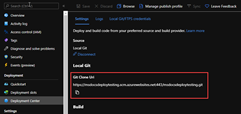
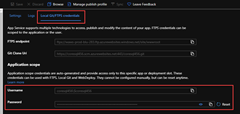
fixed deployments

Changed region(s): [[0.0, 0.0, 1.0, 1.0], [0.7875, 0.4474, 0.8167, 0.5], [0.7875, 0.3421, 0.8167, 0.3947]]

diff --git a/articles/ux-beta/dotnet-app-service-sql/includes/deploy-app-service/deploy-local-git.md b/articles/ux-beta/dotnet-app-service-sql/includes/deploy-app-service/deploy-local-git.md
@@ -1,4 +1,4 @@
-You can deploy your application code from a local Git repository to Azure by configuring a [Git remote](https://git-scm.com/book/en/v2/Git-Basics-Working-with-Remotes) in your local repo pointing at Azure to push code to. The URL of the remote repository and Git credentials needed for configuration can be retrieved using either the Azure portal or the Azure CLI.
+You can deploy your application code from a local Git repository to Azure by configuring a [Git remote](https://git-scm.com/book/en/v2/Git-Basics-Working-with-Remotes) in your local repo pointing at your Azure App Service. The URL of the remote repository and Git credentials needed for configuration can be retrieved using either the Azure portal or the Azure CLI.
 
 ### [Azure portal](#tab/deploy-instructions-azportal)
 
@@ -19,18 +19,28 @@ az webapp deployment source config-local-git \
     --output tsv
 ```
 
+Retrieve the deployment credentials for your application. These will be needed for Git to authenticate to Azure when you push code to Azure in a later step.
+
+```azurecli
+az webapp deployment list-publishing-credentials 
+        --name <app-service-name> 
+        --resource-group msdocs-core-sql
+        --query "{Username:join(`u005C`, [name,publishingUserName]), Password:publishingPassword}"
+```
+
 ---
 
-Next, let's add an Azure origin to our local Git repo using the App Service Git deployment URL from the step where we created our App Service.  Make sure to replace your username and app name in the url below.
+Next, let's add an Azure origin to our local Git repo using the App Service Git deployment URL from the step where we created our App Service.  Make sure to replace your app name in the url below.  You can also get this completed URL from the Azure Portal Local Git/FTPS Credentials tab.
 
 ```bash
-git remote add azure https://<username>@<app-name>.scm.azurewebsites.net/<your-app-name>.git
+git remote add azure https://<app-name>.scm.azurewebsites.net/<your-app-name>.git
 ```
 
 Finally, push your code using the correct origin and branch name.
 
 ```bash
-git push azure master
+## Master is the default deployment branch for App Service - this will ensure our local main branch works for the deployment
+git push azure main:master
 ```
 
 Enter your password if you are prompted to do so. This command will take a moment to run as it deploys your app code to the Azure App Service.

diff --git a/articles/ux-beta/dotnet-app-service-sql/azure-app-service-sql.md b/articles/ux-beta/dotnet-app-service-sql/azure-app-service-sql.md
@@ -20,11 +20,11 @@ This article assumes you're familiar with [.NET]("https://dotnet.microsoft.com/d
 
 ## 1 - Set up the Sample Application
 
-To follow along with this tutorial, [Download the Sample Project](https://github.com/Azure-Samples/dotnetcore-sqldb-tutorial/archive/refs/heads/master.zip) from the repository [https://github.com/Azure-Samples/dotnetcore-sqldb-tutorial](https://github.com/Azure-Samples/dotnetcore-sqldb-tutorial) or clone it using the Git command below.
+To follow along with this tutorial, [Download the Sample Project](https://github.com/Azure-Samples/msdocs-app-service-sqldb-dotnetcore/archive/refs/heads/main.zip) from the repository [https://github.com/Azure-Samples/msdocs-app-service-sqldb-dotnetcore](https://github.com/Azure-Samples/msdocs-app-service-sqldb-dotnetcore) or clone it using the Git command below.
 
 ```bash
-git clone https://github.com/azure-samples/dotnetcore-sqldb-tutorial
-cd dotnetcore-sqldb-tutorial
+git clone https://github.com/Azure-Samples/msdocs-app-service-sqldb-dotnetcore.git
+cd msdocs-app-service-sqldb-dotnetcore
 ```
 
 :::image type="content" source="media/azure-app-in-browser.png" alt-text="This is an architecture diagram about how the solution works in Azure":::

diff --git a/articles/ux-beta/dotnet-app-service-sql/includes/deploy-app-service/deploy-from-local-git-azportal-3.md b/articles/ux-beta/dotnet-app-service-sql/includes/deploy-app-service/deploy-from-local-git-azportal-3.md
@@ -1,3 +1,7 @@
-After saving, the page will refresh and display the address for the remote Git repository.
+After saving, on the Deployment Center page:
 
-Copy the value of the Git Clone Uri as this value will be used to set up a Git remote in a later step.
+1) Navigate to the Local Git/FTPS credentials tab.
+2) Locate the username and password under the Application Scope credentials.
+3) Keep this screen open or copy these credentials to use momentarily when you deploy your code to the remote repository.
+
+When you push code to the remote Git repository for the first time, these credentials are needed to authenticate to the remote repository.

diff --git a/articles/ux-beta/dotnet-app-service-sql/includes/deploy-app-service/deploy-from-local-git-azportal-1.md b/articles/ux-beta/dotnet-app-service-sql/includes/deploy-app-service/deploy-from-local-git-azportal-1.md
@@ -1,4 +1,4 @@
 Navigate to the App Service for your application.
 
 1) Enter the name of your App Service in the search box at the top of the screen.
-2) The App Service will appear under the Resources heading. Select the App Service to navigate to it.
+2) In the search results, select the App Service to navigate to it.
